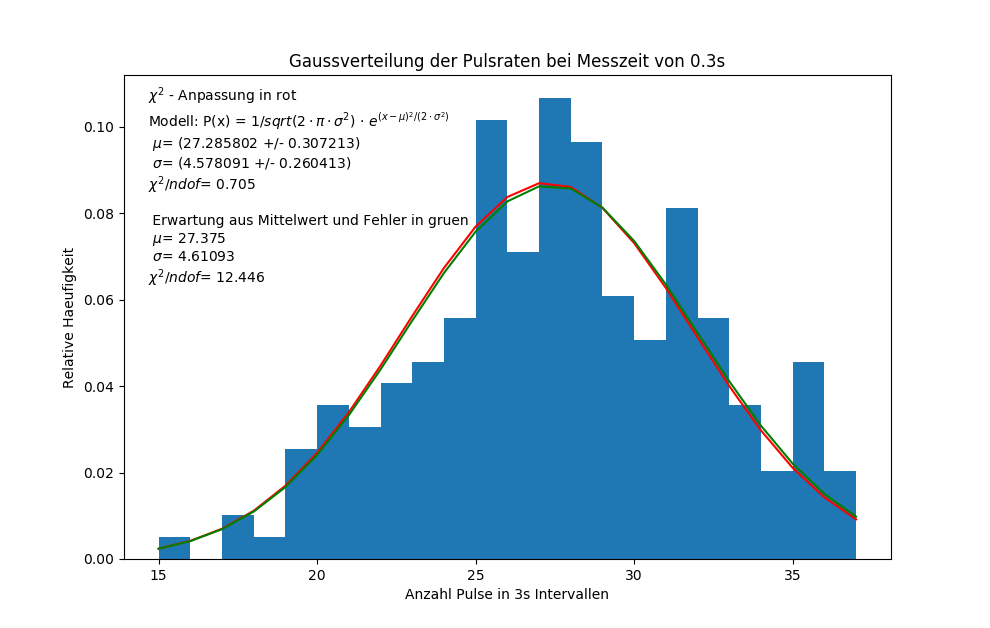
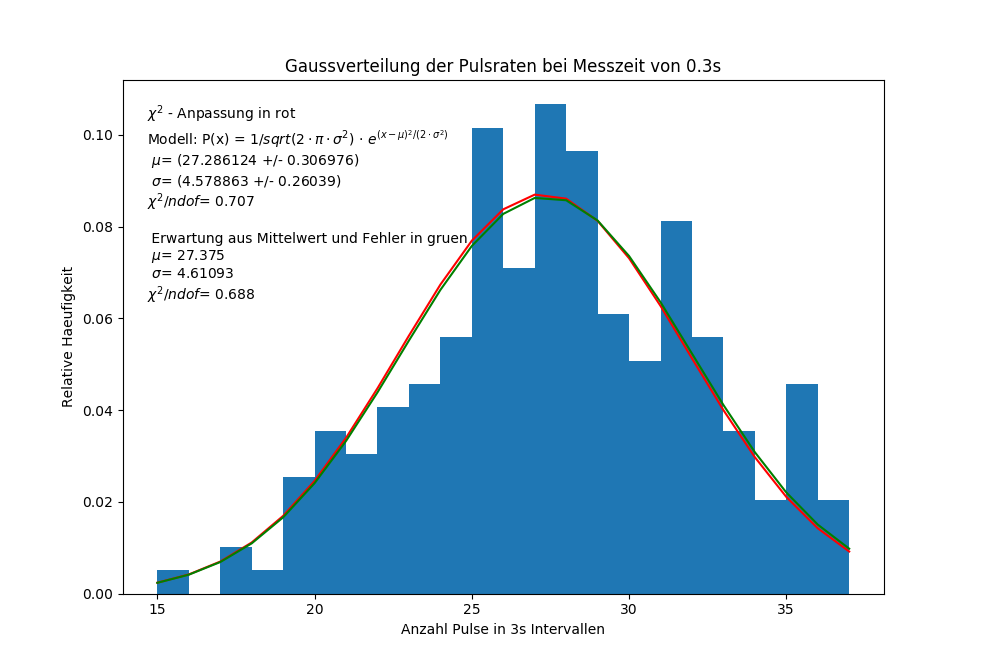
Protokoll Auswertung Statistik Update

diff --git a/T07/Protokoll/Gasdetektoren.tex b/T07/Protokoll/Gasdetektoren.tex
@@ -83,14 +83,64 @@ P(\Delta t) = A \cdot e^{- A \Delta t}
 \label{fig:Poisson}
 \end{figure}
 
+\begin{table}
+\centering
+\begin{tabular}{|c|c|c|}
+\hline 
+Art & Poisson Parameter & $\chi ^2$ /ndof \\ 
+\hline 
+Mittelwertbestimmung & 1,0900 & 45,850 \\ 
+\hline 
+Bestimmung der Standardabweichung & 0,9918 & 45,827 \\ 
+\hline 
+$\chi ^2$ Anpassung & 0,9332 $\pm$ 0,3689 & 11,125 \\ 
+\hline 
+\end{tabular} 
+\caption{Poisson Parameter und $\chi ^2$ aus den verschiedenen Bestimmungsmethoden.}
+\label{tab:Poisson}
+\end{table}
+
+Für die Poissonverteilung wird die Anzahl der Pulse im Geiger-Müller-Zählrohr für ein festgelegtes Messintervall wiederholt gemessen. Die auftretenden Anzahlen werden dann in Intervalle mit Breite 1 zusammengefasst und aufgetragen. Das Ergebnis zeigt das Histogramm in Abbildung \ref{fig:Poisson} zusammen mit der $\chi ^2$ Anpassung (in rot) und den Erwartungen die sich aus der Bestimmung des Mittelwertes (grün) und der Standardabweichung (gelb) ergeben.\\
+Für die Anpassung wurde auf jeden Wert ein Fehler gemäß der Poissonverteilung angenommen:
+\begin{equation*}
+\sigma _{n} = \sqrt{n}
+\end{equation*}
+Für die Anpassung einer Gaußverteilung wurden die Werte normiert, daher pflanzt sich der Fehler fort zu:
+\begin{equation*}
+n_{i, norm} = \dfrac{n_i}{\sum _j n_j} := \dfrac{n_i}{N}
+\end{equation*}
+\begin{equation*}
+\sigma _{i, norm} = \sqrt{ \sum _j \left( \sigma_j \cdot \left( \delta_{ij} \cdot \left( \frac{1}{N} - \frac{n_i}{N} \right) + (1 - \delta_{ij}) \cdot \frac{n_i}{N^2} \right) \right)^2 }
+\end{equation*}
+AB HIER ÜBERARBEITEN!! \\
+Tabelle \ref{tab:Poisson} zeigt die Ergebnisse aus den verschiedenen Methoden zur Bestimmung des Poisson Parameters und des $\chi ^2$. Leicht lässt sich ersehen, dass die Werte für den Poisson Parameter nah beieinander liegen, das $\chi ^2$ aus der Anpassung jedoch deutlich kleiner ist als die aus der Berechnung nach Bestimmung des Parameters. Insgesamt ist das $\chi ^2$ jedoch deutlich zu groß. 
+
 
 \subsubsection{Gaußverteilung}
 \begin{figure}
 \centering
 \includegraphics[scale=0.8]{Bilder/gauss.PNG}
 \caption{Darstellung der gemessenen Gaußverteilung mit der Erwartung und der Anpassung.}
-\label{fig:Poisson}
+\label{fig:gauss}
 \end{figure}
+
+\begin{table}
+\centering
+\begin{tabular}{|c|c|c|c|}
+\hline 
+Art & Mittelwert & Standardabweichung & $\chi ^2$ /ndof \\ 
+\hline 
+Bestimmung von $\sigma$ und $\mu$ & 27,375 & 4,611 & 0,688 \\ 
+\hline 
+$\chi ^2$ Anpassung & 27,286 $\pm$ 0,307 & 4,578 $\pm$ 0,260 & 0,705 \\ 
+\hline 
+\end{tabular} 
+\caption{Mittelwert, Standardabweichung und $\chi ^2$ aus den verschiedenen Bestimmungsmethoden.}
+\label{tab:Gauss}
+\end{table}
+
+Das Verfahren bei der Gaußverteilung ist identisch zu dem Verfahren bei der Poissonverteilung. Abbildung \ref{fig:gauss} zeigt das Ergebnis. Hier ist in rot die $\chi ^2$ Anpassung und die Erwartung aus Mittelwert und Standardabweichung in grün. Hier gibt es nur eine Erwartung, weil für die Bestimmung der Gaußverteilung Mittelwert und Standardabweichung notwendig sind.\\
+Tabelle \ref{tab:Gauss} zeigt die Werte für Mittelwert, Standardabweichung und $\chi ^2$, die sich aus dem Fit und aus der Erwartung durch Bestimmung von Standardabweichung und Mittelwert ergibt. Die Werte für Mittelwert und Standardabweichung stimmen sehr gut überein und die $\chi ^2$ liegen ebenfalls sehr nah beieinander. Die Wahrscheinlichkeit für ein $\chi ^2$ pro Freiheitsgrad von 0,7 liegt ungefähr bei 30\%.
 
 
 \subsubsection{Exponentialverteilung}
@@ -98,8 +148,10 @@ P(\Delta t) = A \cdot e^{- A \Delta t}
 \centering
 \includegraphics[scale=0.8]{Bilder/Peakabstaende.PNG}
 \caption{Darstellung der gemessenen Peakabstände mit den Erwartungen und der Anpassung.}
-\label{fig:Poisson}
+\label{fig:exponential}
 \end{figure}
+
+Für die Auswertung der Exponentialverteilung werden die gemessenen Zeitabstände zunächst in sinnvolle Intervalle zusammengefasst. Die Anzahl der gemessenen $\Delta t$, die in diesem Intervall liegen werden auf die x-Achse aufgetragen. Die Anzahl der Intervalle mit der gleichen Anzahl der gemessenen $\Delta t$ wird auf die y-Achse aufgetragen. Dabei wird wieder normiert. Abbildung \ref{fig:exponential} zeigt das Ergebnis.
 
 \section{Zusammenfassung}
 
